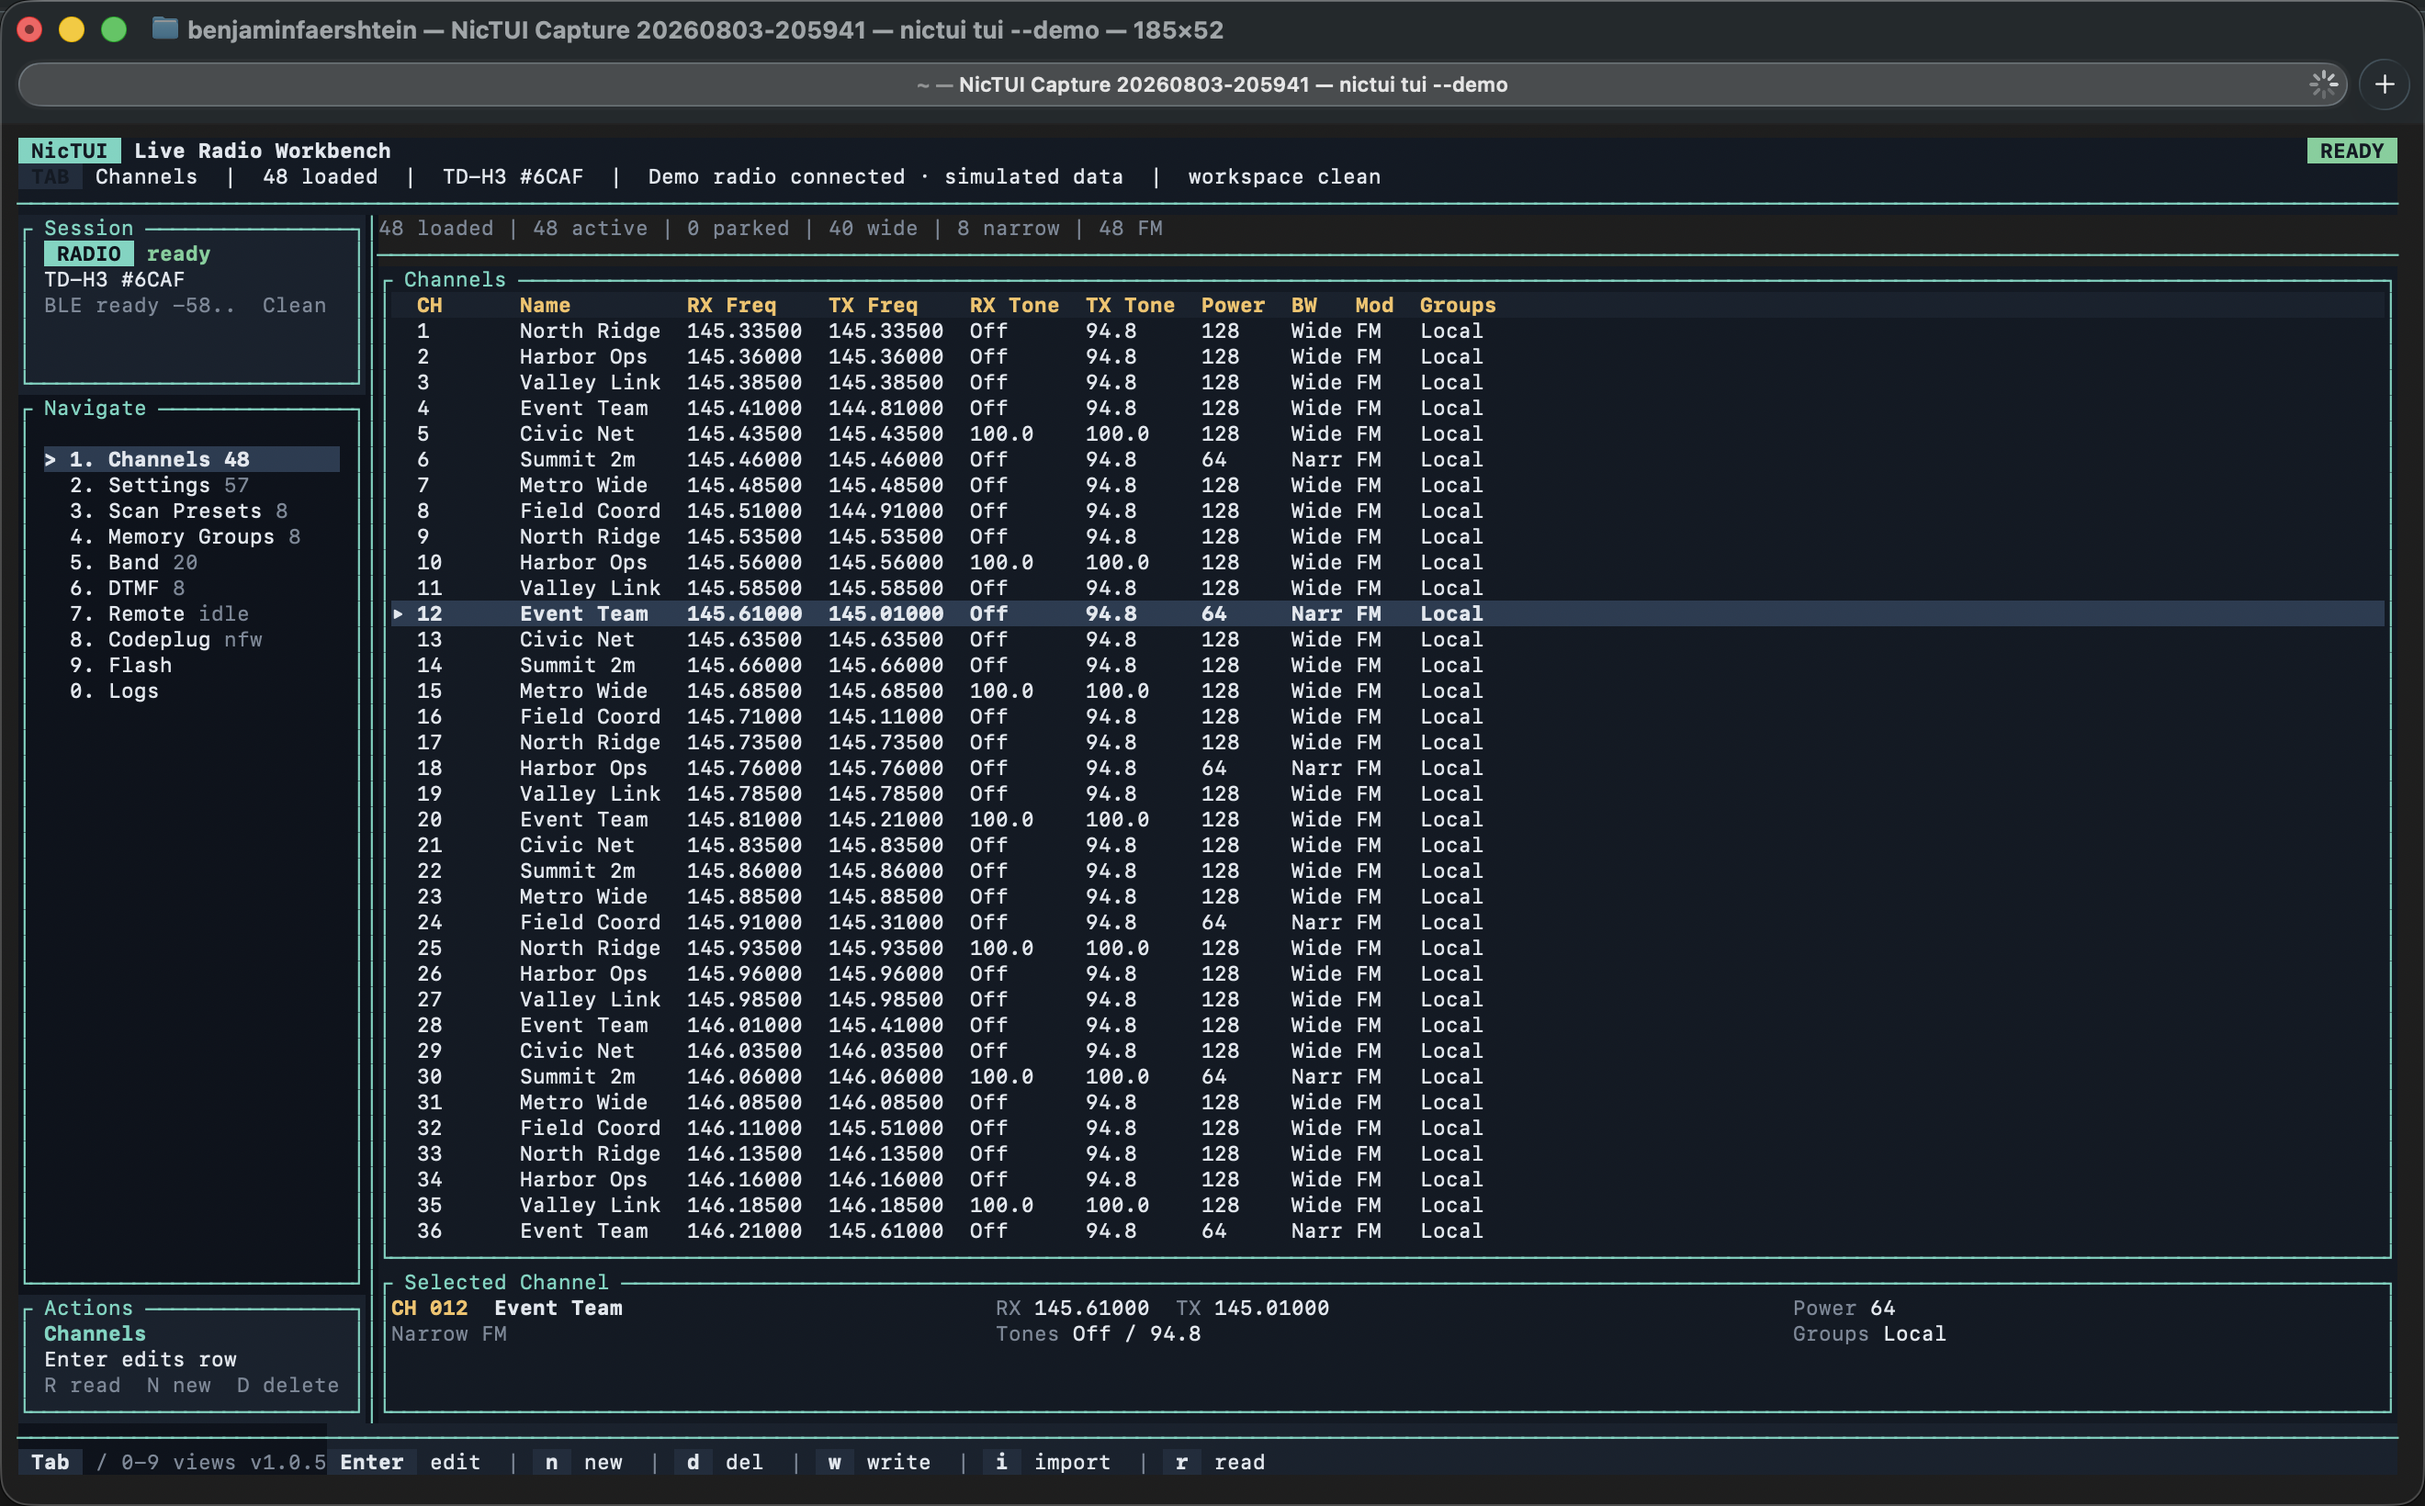
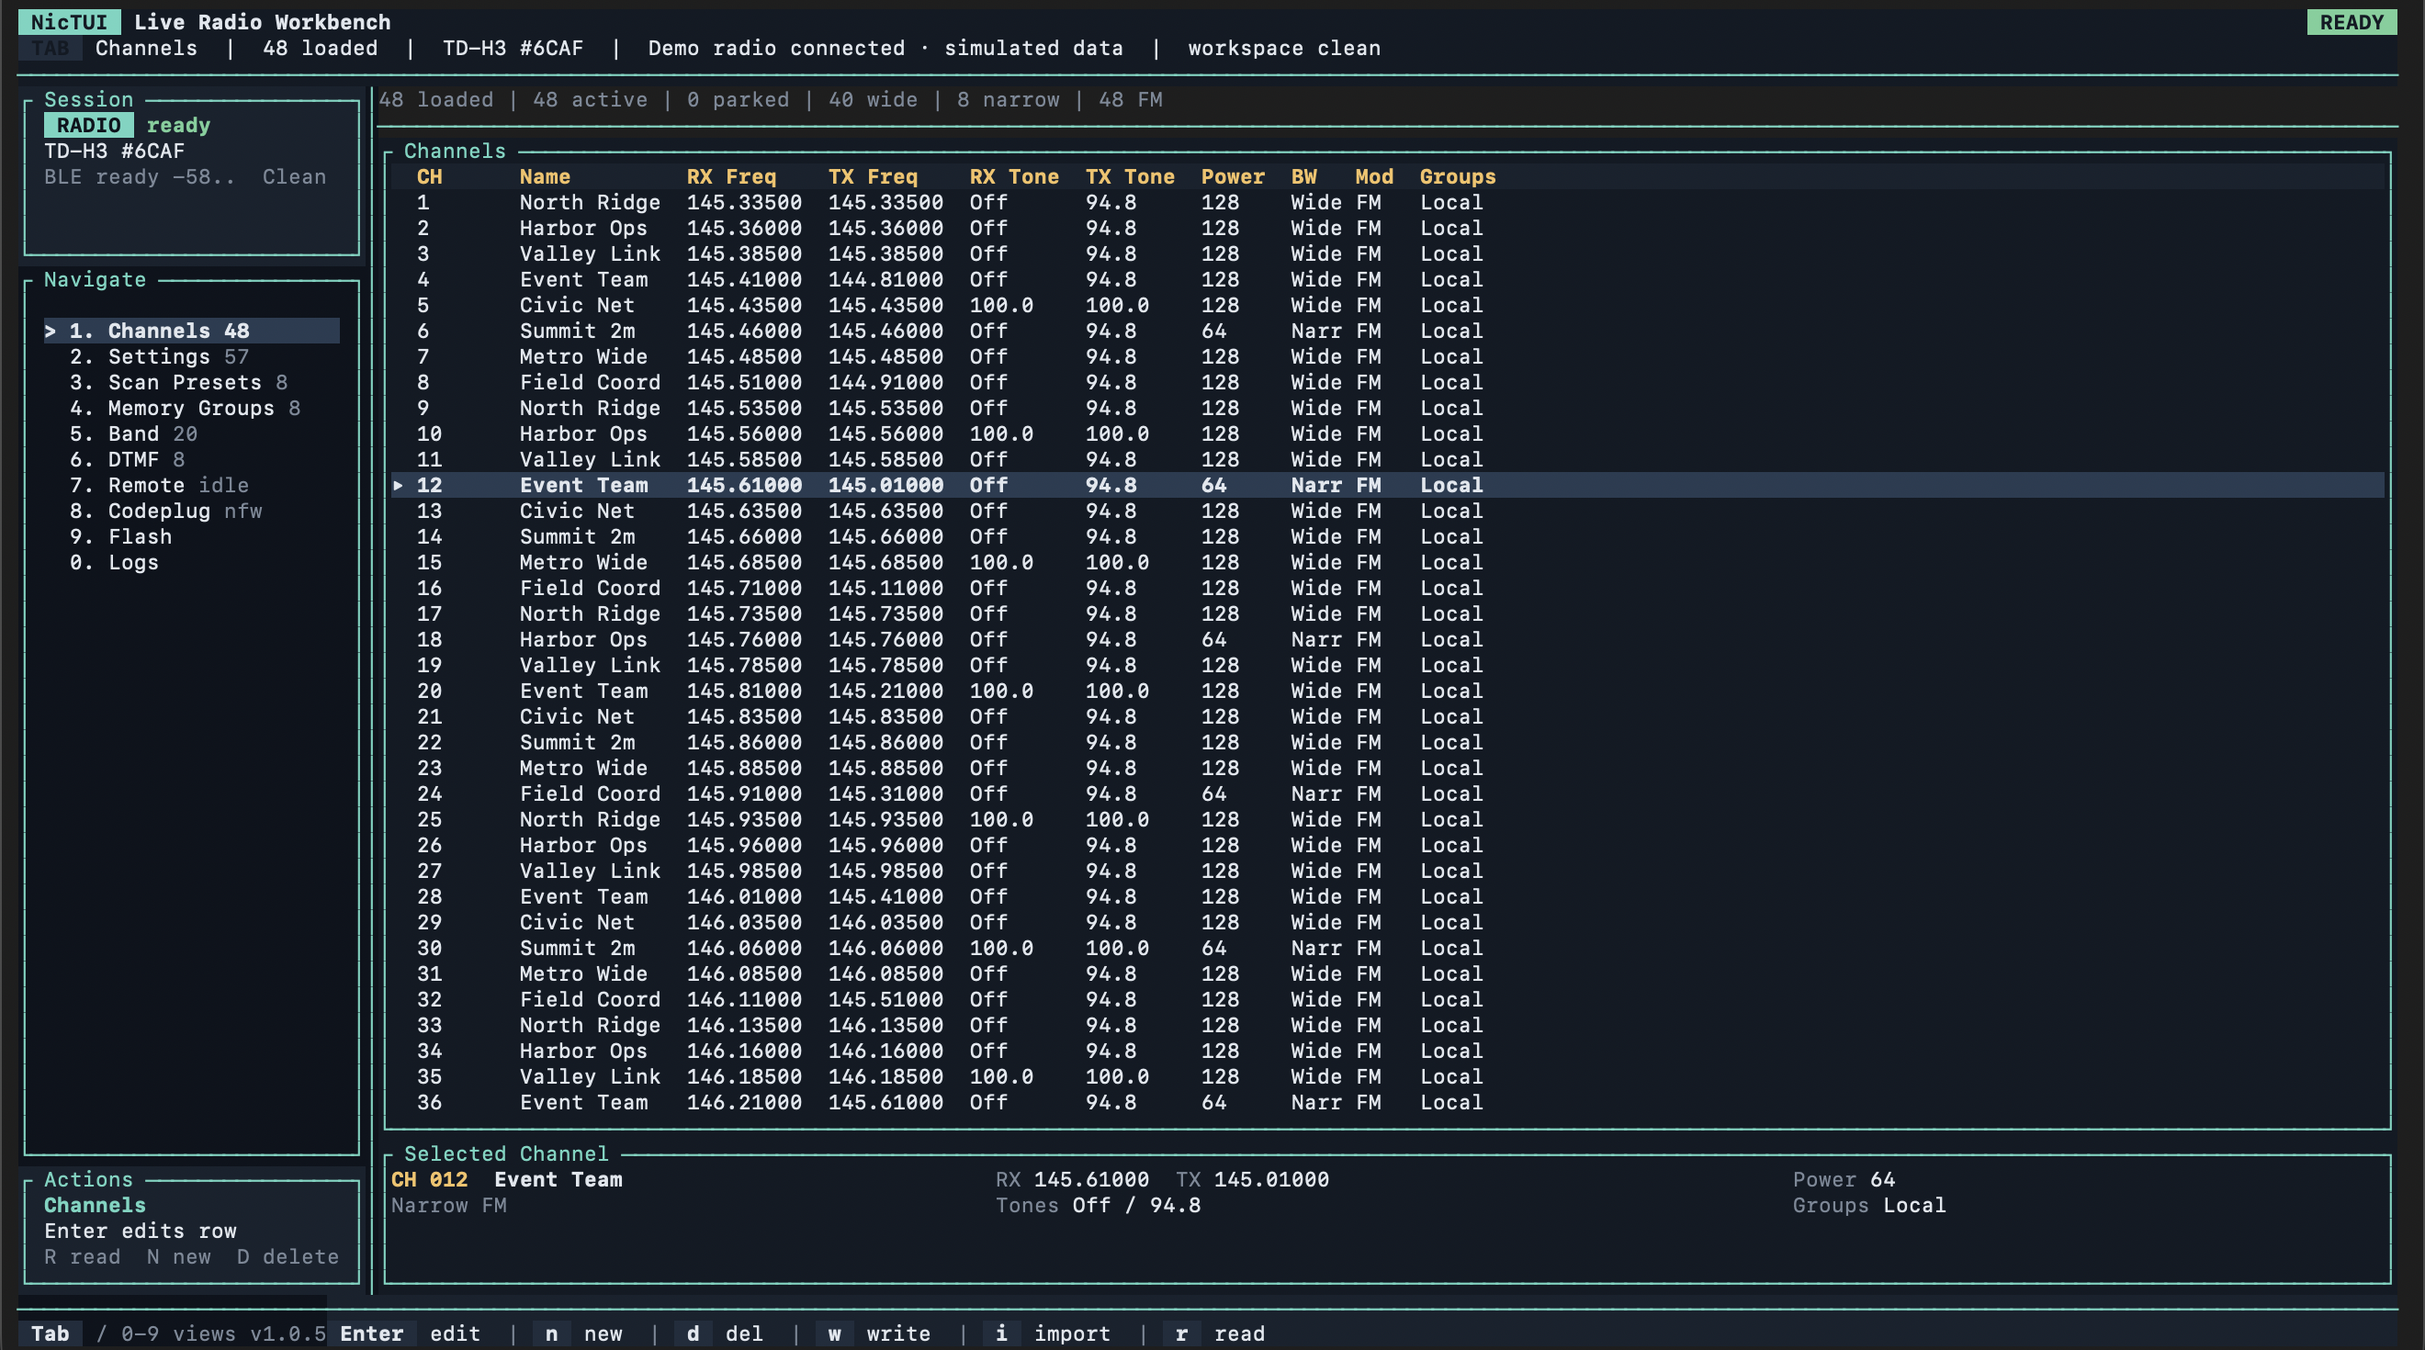
Polish public README screenshots

Changed region(s): [[0.0, 0.0, 1.0, 1.0], [0.9939, 0.9796, 1.0, 1.0]]

diff --git a/README.md b/README.md
@@ -16,8 +16,6 @@ A terminal-based user interface for programming the TIDRADIO TD-H3 HAM radio.
 
 ## Screenshots
 
-These screenshots are captured from the built-in hardware-free demo workspace, so they show the real TUI layout without requiring a connected radio:
-
 <p align="center">
   <img src="assets/screenshots/channels.png" alt="NicTUI Channels view" width="100%">
 </p>
@@ -29,14 +27,6 @@ These screenshots are captured from the built-in hardware-free demo workspace, s
 <p align="center">
   <img src="assets/screenshots/remote.png" alt="NicTUI Remote telemetry dashboard" width="100%">
 </p>
-
-Preview the same views locally with:
-
-```bash
-nictui tui --demo
-nictui tui --demo --demo-view settings
-nictui tui --demo --demo-view remote
-```
 
 ## Installation
 
@@ -505,10 +495,6 @@ nictui codeplug inspect --help
 **BIN Flash Tab:**
 - `i` - Import firmware file
 - `f` - Start flash
-
-## UI Capture
-
-Maintainers working on TUI polish can use the local macOS capture helper in `scripts/tui_capture_macos.py`. Run `python3 scripts/tui_capture_macos.py --help` from a checkout for current options. Use `--demo` and `--demo-view` to capture deterministic screenshots without hardware.
 
 ## Building from Source
 
